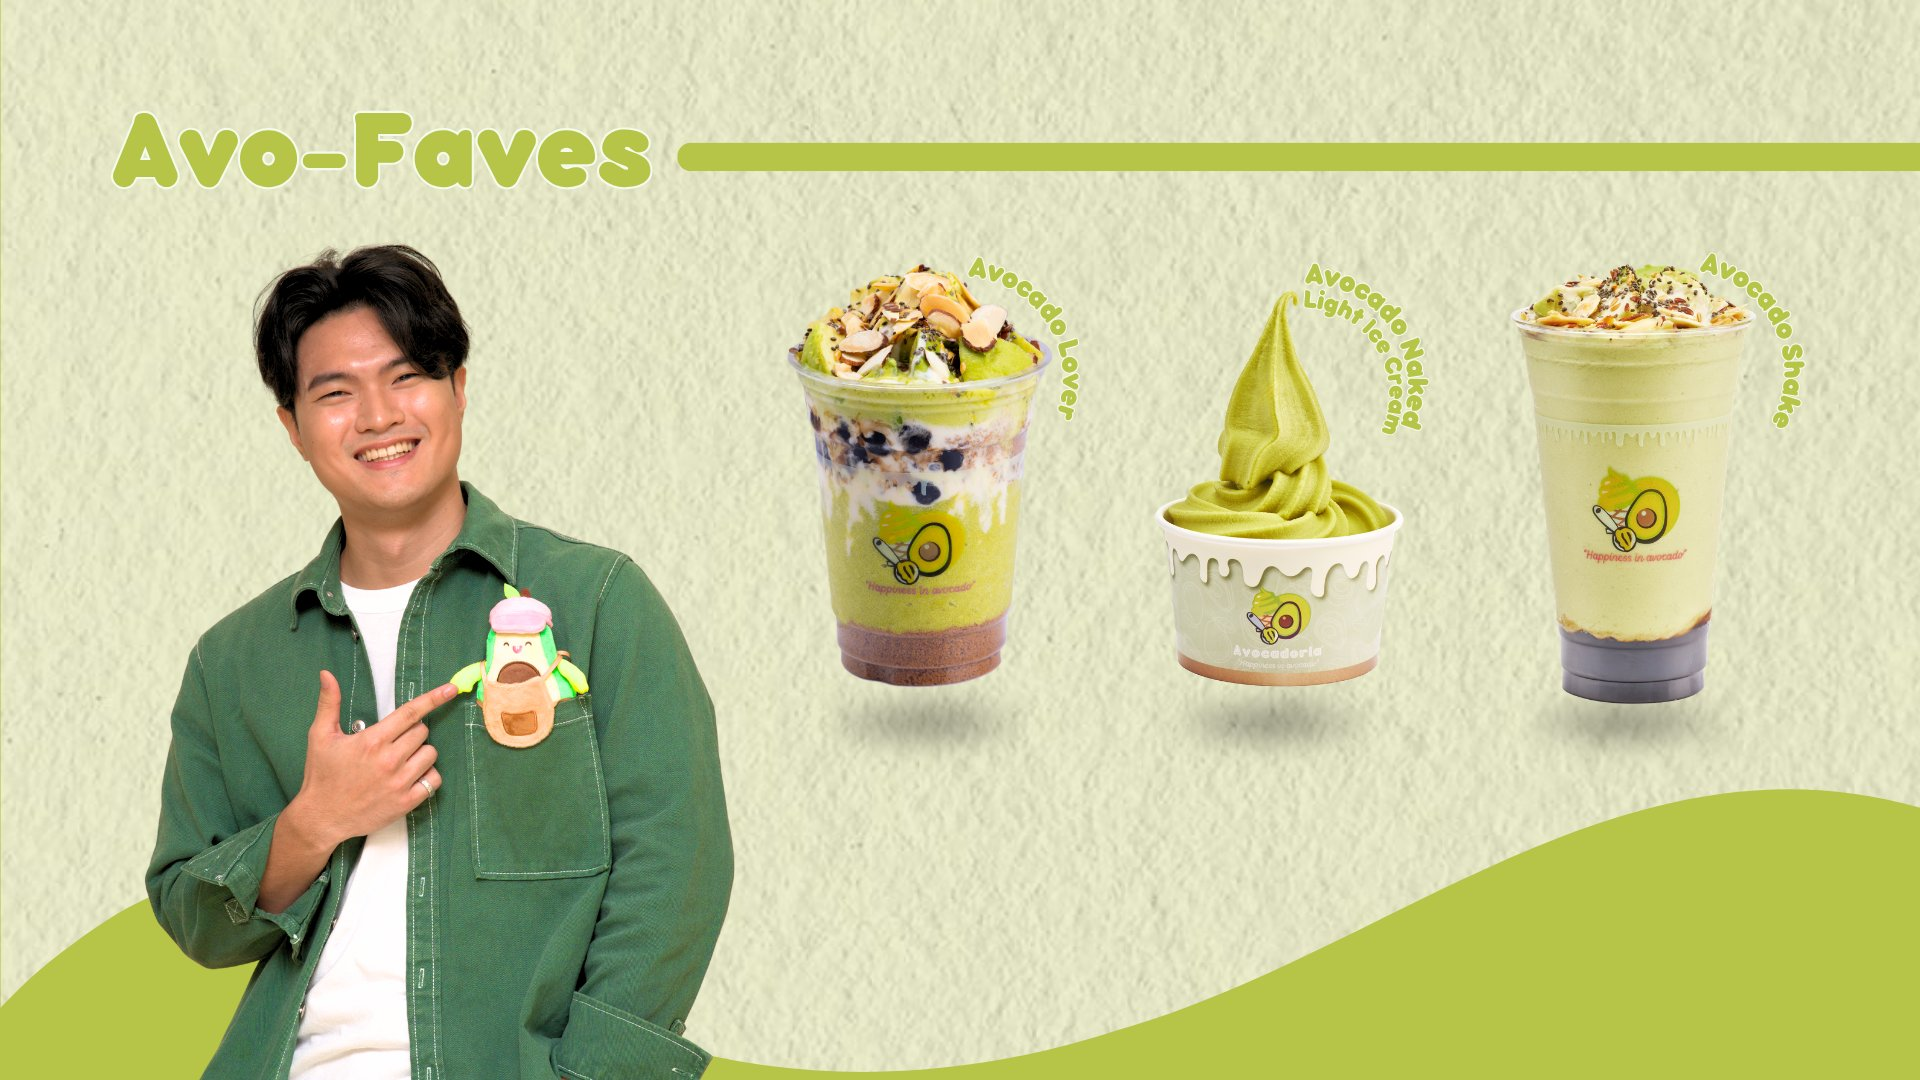
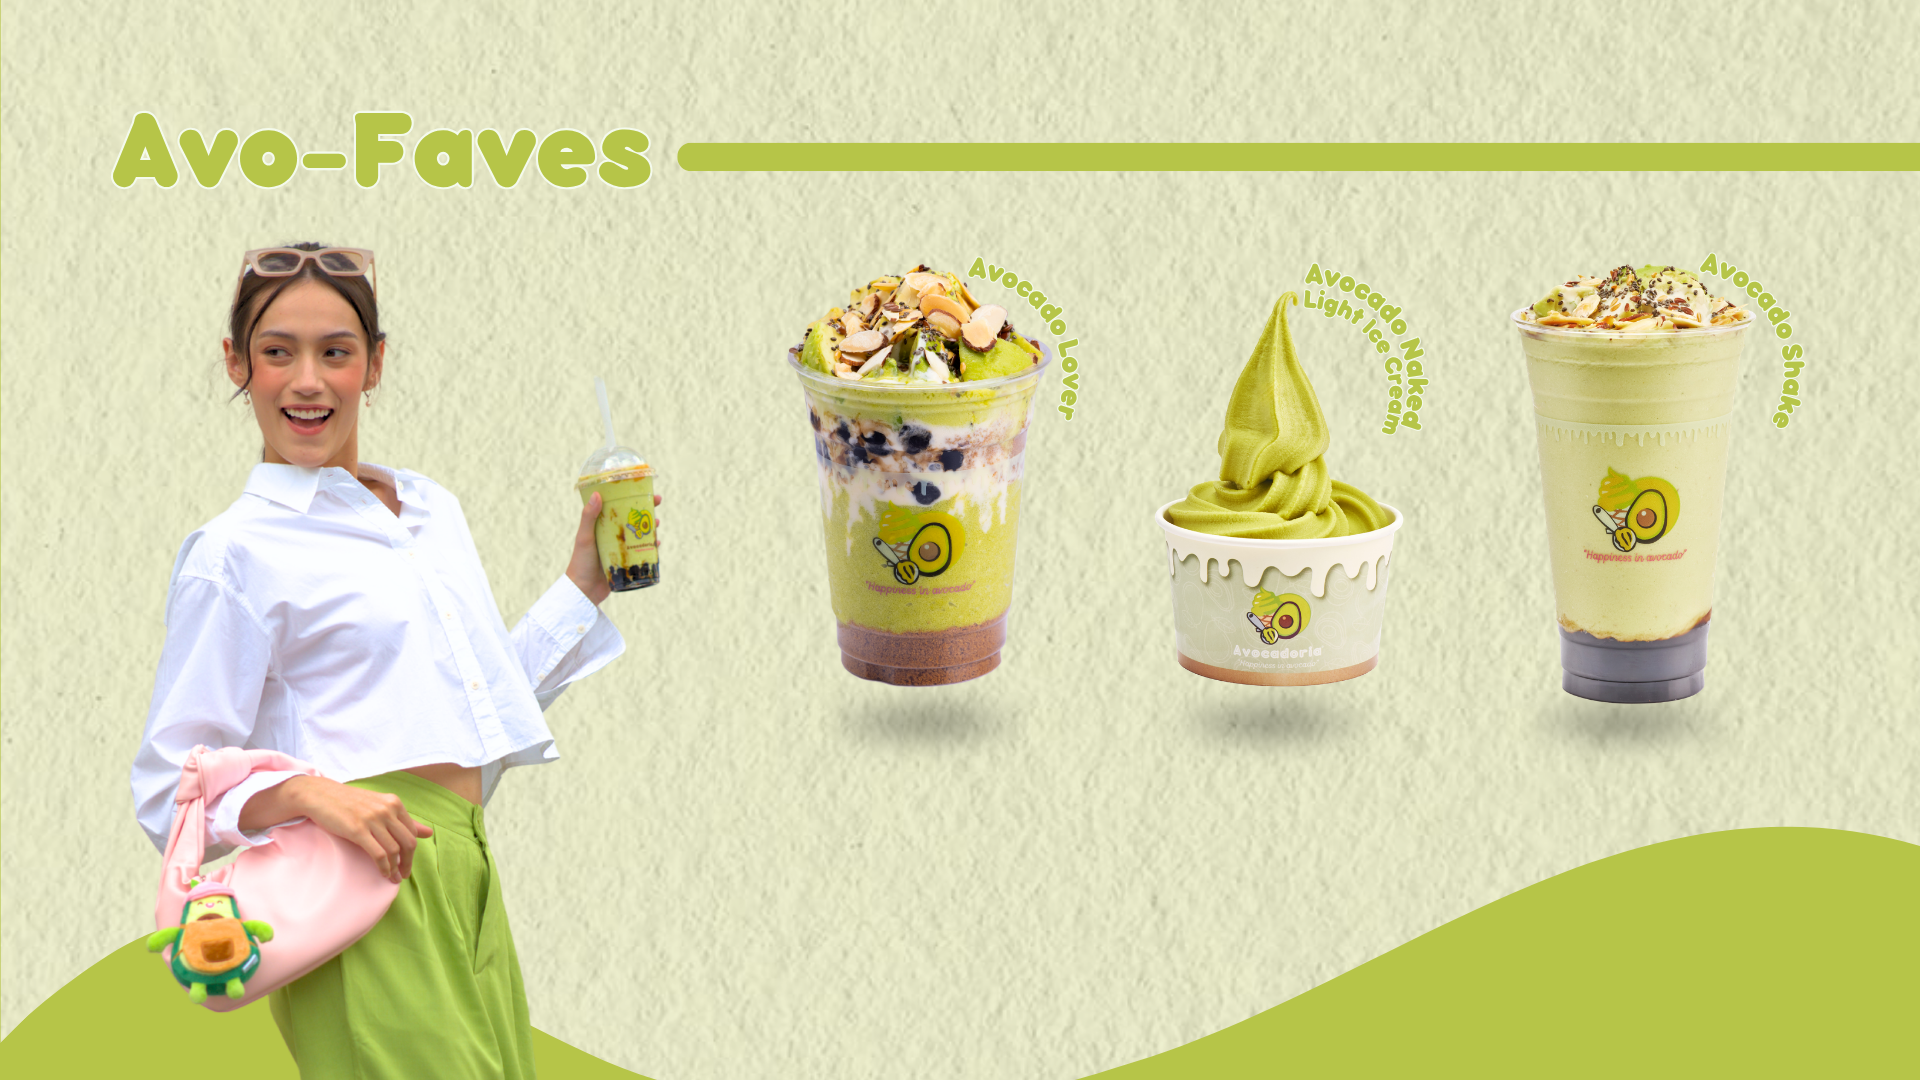
homepage

diff --git a/src/pages/HomePage.jsx b/src/pages/HomePage.jsx
@@ -184,64 +184,52 @@ function ProductLayers() {
 
 const FRANCHISE_CARTS = [
   {
-    id:         'food-truck',
-    image:      '/franchise-food-truck.png',
-    name:       'Food Truck',
-    size:       '10 sqm',
-    tag:        'Most Mobile',
-    tagColor:   '#EF7ECB',
-    color:      '#b6c548',
-    highlights: [
-      'Perfect for events, bazaars & festivals',
-      'Pick-up + Order window layout',
-      'Fully branded with illuminated signage',
-      'Easy to relocate — maximum reach',
-    ],
+    id:       'food-truck',
+    image:    '/ft-food-truck.png',
+    name:     'Food Truck',
+    tag:      'Most Mobile',
+    tagColor: '#EF7ECB',
+    color:    '#b6c548',
   },
   {
-    id:         'island',
-    image:      '/franchise-island.png',
-    name:       'Island',
-    size:       '20 sqm',
-    tag:        'Best Value',
-    tagColor:   '#DFD438',
-    color:      '#3a6b35',
-    highlights: [
-      'Integrated seating area for dwell time',
-      'Largest format — premium mall presence',
-      'Dedicated prep + service zones',
-      'Scalable layout for high foot traffic',
-    ],
+    id:       'kiosk',
+    image:    '/ft-kiosk.png',
+    name:     'Kiosk',
+    tag:      'Most Popular',
+    tagColor: '#b6c548',
+    color:    '#3a6b35',
   },
   {
-    id:         'popup',
-    image:      '/franchise-popup.png',
-    name:       'Pop Up',
-    size:       '6 sqm',
-    tag:        'Entry Level',
-    tagColor:   '#b6c548',
-    color:      '#EF7ECB',
-    highlights: [
-      'Most affordable entry point',
-      'Illuminated Avocadoria branding wall',
-      'Built-in digital display screen',
-      'Compact & efficient — fits any space',
-    ],
+    id:       'kiosk-1',
+    image:    '/ft-kiosk-1.png',
+    name:     'Kiosk Premium',
+    tag:      'Fan Favourite',
+    tagColor: '#DFD438',
+    color:    '#8A5F3C',
   },
   {
-    id:         'kiosk',
-    image:      '/franchise-kiosk.png',
-    name:       'Kiosk',
-    size:       '6.25 sqm',
-    tag:        'Most Popular',
-    tagColor:   '#b6c548',
-    color:      '#8A5F3C',
-    highlights: [
-      'Iconic avocado drip counter design',
-      'Signature curved architecture',
-      'Open layout — fast Order → Pick-Up flow',
-      'Premium finish, strong brand visibility',
-    ],
+    id:       'kiosk-2',
+    image:    '/ft-kiosk-2.png',
+    name:     'Kiosk Classic',
+    tag:      'Best Value',
+    tagColor: '#3a6b35',
+    color:    '#EF7ECB',
+  },
+  {
+    id:       'island',
+    image:    '/ft-island.png',
+    name:     'Island',
+    tag:      'Largest Format',
+    tagColor: '#b6c548',
+    color:    '#3a6b35',
+  },
+  {
+    id:       'island-1',
+    image:    '/ft-island-1.png',
+    name:     'Island Plus',
+    tag:      'With Seating',
+    tagColor: '#EF7ECB',
+    color:    '#b6c548',
   },
 ]
 
@@ -265,8 +253,8 @@ const FRANCHISE_BG = {
   overlayOpacity: 0.45,
 
   // Padding top/bottom
-  paddingTop:    '72px',
-  paddingBottom: '56px',
+  paddingTop:    '32px',
+  paddingBottom: '48px',
 }
 
 // White stroke text-shadow (same as hero headline)
@@ -334,28 +322,8 @@ function FranchiseTeaser() {
     <section style={{
       padding: `${FRANCHISE_BG.paddingTop} 24px ${FRANCHISE_BG.paddingBottom}`,
       position: 'relative',
-      background: FRANCHISE_BG.type === 'image'
-        ? 'transparent'
-        : FRANCHISE_BG.type === 'gradient'
-        ? FRANCHISE_BG.gradient
-        : FRANCHISE_BG.type === 'solid'
-        ? FRANCHISE_BG.solid
-        : 'transparent',
-      backgroundImage: FRANCHISE_BG.type === 'image'
-        ? `url('${FRANCHISE_BG.image}')`
-        : 'none',
-      backgroundSize: 'cover',
-      backgroundPosition: 'center',
-      backgroundRepeat: 'no-repeat',
+      background: 'linear-gradient(135deg, #c8d96a 0%, #d9e29e 40%, #c0d458 100%)',
     }}>
-      {/* Optional white overlay — softens the bg slightly */}
-      {FRANCHISE_BG.overlayOpacity > 0 && (
-        <div style={{
-          position: 'absolute', inset: 0, pointerEvents: 'none', zIndex: 0,
-          background: `rgba(255,255,255,${FRANCHISE_BG.overlayOpacity})`,
-        }}/>
-      )}
-      {/* Content sits above overlay */}
       <div style={{ position: 'relative', zIndex: 1 }}>
       <style>{`
         @keyframes ft-fade-in {
@@ -398,15 +366,15 @@ function FranchiseTeaser() {
       `}</style>
 
       {/* ── Headline ── */}
-      <div style={{ textAlign: 'center', marginBottom: '36px' }}>
+      <div style={{ textAlign: 'center', marginBottom: '20px' }}>
         {/* Badge */}
         <span style={{
-          display: 'inline-block', marginBottom: '14px',
+          display: 'inline-block', marginBottom: '10px',
           background: '#EF7ECB', color: '#fff',
           fontFamily: "'BubbleboddyNeue', 'Nunito', sans-serif",
-          fontSize: '12px', fontWeight: '800',
+          fontSize: '11px', fontWeight: '800',
           letterSpacing: '0.07em', textTransform: 'uppercase',
-          padding: '5px 18px', borderRadius: '999px',
+          padding: '4px 16px', borderRadius: '999px',
         }}>
           Now Open for Franchising 🥑
         </span>
@@ -431,126 +399,51 @@ function FranchiseTeaser() {
           margin: 0,
           textShadow: '0 1px 0 rgba(255,255,255,0.8)',
         }}>
-          Four flexible formats. One iconic brand.
+          Six flexible formats. One iconic brand.
         </p>
       </div>
 
-      {/* ── Carousel wrapper ── */}
-      <div style={{
-        maxWidth: '960px', margin: '0 auto',
-        display: 'flex', alignItems: 'center', gap: '16px',
-      }}>
+      {/* ── Carousel wrapper — 3 visible, sliding track ── */}
+      <div style={{ maxWidth: '1100px', margin: '0 auto', display: 'flex', alignItems: 'center', gap: '12px' }}>
 
         {/* Left arrow */}
         {arrowBtn(prev, 'Previous cart format', '‹')}
 
-        {/* Card */}
-        <div
-          key={cur}
-          className="ft-card-enter"
-          style={{
-            flex: 1,
-            background: 'rgba(255,255,255,0.88)',
-            borderRadius: '24px',
-            border: `2px solid ${cart.color}30`,
-            boxShadow: '0 8px 32px rgba(0,0,0,0.10), inset 0 1px 0 rgba(255,255,255,0.9)',
-            backdropFilter: 'blur(12px)',
-            overflow: 'hidden',
-            opacity: visible ? 1 : 0,
-            transition: `opacity ${FRANCHISE_TIMING.transitionMs}ms ease`,
-          }}
-        >
-          <div className="ft-card-grid" style={{ display: 'flex' }}>
-
-            {/* Left: image */}
-            <div className="ft-card-img" style={{
-              width: '42%', minHeight: '320px',
-              background: `${cart.color}10`,
-              display: 'flex', alignItems: 'center', justifyContent: 'center',
-              padding: '24px',
-              borderRight: `1px solid ${cart.color}20`,
-              flexShrink: 0,
-            }}>
-              <img
-                src={cart.image}
-                alt={cart.name}
+        {/* Sliding track */}
+        <div style={{ flex: 1, overflow: 'hidden' }}>
+          <div style={{
+            display: 'flex', gap: '16px',
+            transform: `translateX(calc(-${cur} * (100% / 3 + 16px / 3)))`,
+            transition: `transform ${FRANCHISE_TIMING.transitionMs}ms cubic-bezier(.4,0,.2,1)`,
+          }}>
+            {FRANCHISE_CARTS.map((c) => (
+              <div
+                key={c.id}
                 style={{
-                  width: '100%', maxHeight: '280px',
-                  objectFit: 'contain', display: 'block',
+                  flexShrink: 0,
+                  width: 'calc((100% - 32px) / 3)',
+                  position: 'relative',
+                  aspectRatio: '4/3',
+                  cursor: 'pointer',
+                  transition: 'transform 0.3s ease',
                 }}
-              />
-            </div>
-
-            {/* Right: info */}
-            <div className="ft-card-info" style={{ flex: 1, padding: '28px 28px 24px' }}>
-
-              {/* Tag */}
-              <span style={{
-                display: 'inline-block', marginBottom: '12px',
-                background: cart.tagColor, color: '#fff',
-                fontFamily: 'Nunito, sans-serif',
-                fontSize: '11px', fontWeight: '800',
-                letterSpacing: '0.06em', textTransform: 'uppercase',
-                padding: '4px 14px', borderRadius: '999px',
-              }}>
-                {cart.tag}
-              </span>
-
-              {/* Cart name */}
-              <h3 style={{
-                fontFamily: "'BubbleboddyNeue', 'Nunito', sans-serif",
-                fontSize: 'clamp(1.6rem, 3vw, 2.4rem)',
-                fontWeight: 800, lineHeight: 1.1,
-                color: cart.color, margin: '0 0 4px',
-              }}>
-                {cart.name}
-              </h3>
-
-              {/* Size */}
-              <p style={{
-                fontFamily: 'Nunito, sans-serif',
-                fontSize: '13px', color: '#8A5F3C',
-                opacity: 0.7, margin: '0 0 18px',
-              }}>
-                Store Size: <strong>{cart.size}</strong>
-              </p>
-
-              {/* Divider */}
-              <div style={{ height: '1px', background: `${cart.color}30`, marginBottom: '16px' }}/>
-
-              {/* Highlights */}
-              <ul style={{ listStyle: 'none', padding: 0, margin: '0 0 22px', display: 'flex', flexDirection: 'column', gap: '9px' }}>
-                {cart.highlights.map((h, i) => (
-                  <li key={i} style={{ display: 'flex', alignItems: 'flex-start', gap: '9px',
-                    fontFamily: 'Nunito, sans-serif', fontSize: '13px', color: '#5a6a2a', lineHeight: 1.4 }}>
-                    <span style={{
-                      width: '18px', height: '18px', borderRadius: '50%',
-                      background: cart.color, color: '#fff',
-                      display: 'flex', alignItems: 'center', justifyContent: 'center',
-                      fontSize: '9px', fontWeight: '800', flexShrink: 0, marginTop: '1px',
-                    }}>✓</span>
-                    {h}
-                  </li>
-                ))}
-              </ul>
-
-              {/* Inquire link */}
-              <Link
-                to="/franchise"
-                style={{
-                  fontFamily: 'Nunito, sans-serif',
-                  fontSize: '13px', fontWeight: '700',
-                  color: cart.color, textDecoration: 'none',
-                  display: 'inline-flex', alignItems: 'center', gap: '4px',
-                  opacity: 0.85, transition: 'opacity 0.2s',
-                }}
-                onMouseEnter={e => e.currentTarget.style.opacity='1'}
-                onMouseLeave={e => e.currentTarget.style.opacity='0.85'}
+                onMouseEnter={e => e.currentTarget.style.transform='translateY(-8px)'}
+                onMouseLeave={e => e.currentTarget.style.transform='none'}
               >
-                Inquire About This Format →
-              </Link>
-
-            </div>
+                <img
+                  src={c.image}
+                  alt={c.name}
+                  style={{
+                    position: 'absolute', inset: 0,
+                    width: '140%', height: '100%',
+                    objectFit: 'contain',
+                    objectPosition: 'center center',
+                    filter: 'drop-shadow(0 12px 28px rgba(40,70,20,0.22))',
+                    left: '-20%',
+                  }}
+                />
+              </div>
+            ))}
           </div>
         </div>
 
@@ -558,8 +451,8 @@ function FranchiseTeaser() {
         {arrowBtn(next, 'Next cart format', '›')}
       </div>
 
-      {/* ── Dots + progress ── */}
-      <div style={{ display: 'flex', justifyContent: 'center', alignItems: 'center', gap: '10px', marginTop: '24px' }}>
+      {/* ── Dots hidden ── */}
+      <div style={{ display: 'none' }}>
         {FRANCHISE_CARTS.map((c, i) => (
           <button
             key={c.id}
@@ -812,8 +705,8 @@ export default function HomePage() {
             position:'absolute', inset:0, zIndex:3, pointerEvents:'none',
             background:`linear-gradient(to right,
               rgba(255,255,255,${WASH.opacityLeft})    0%,
-              rgba(255,255,255,${WASH.opacityMidLeft}) 80%,
-              rgba(255,255,255,${WASH.opacityMid})     100%,
+              rgba(255,255,255,${WASH.opacityMidLeft}) 28%,
+              rgba(255,255,255,${WASH.opacityMid})     44%,
               rgba(255,255,255,${WASH.opacityRight})   ${WASH.clearAt},
               rgba(255,255,255,0) 100%)`,
           }}/>
@@ -916,13 +809,21 @@ export default function HomePage() {
           </div>
         </section>
 
+        {/* Wave: Avo Faves #e8f0c8 → franchise green — matches the slope gradient */}
+        <Wave fromColor="#e8f0c8" toColor="#c8d96a" height={60} />
+
         {/* ════════════ FRANCHISE TEASER ════════════ */}
         <FranchiseTeaser />
 
-        <Wave fromColor="#e8f0c8" toColor={C.news} height={56} />
+        <Wave fromColor="#e8f0c8" toColor="#d9e29e" height={56} />
 
         {/* ════════════ WHAT'S NEW ════════════ */}
-        <section style={{ background:C.news, padding:'64px 32px 80px' }}>
+        <section style={{ position:'relative', overflow:'hidden', padding:'64px 32px 80px' }}>
+          <img src="/avobg.svg" aria-hidden="true" style={{
+            position:'absolute', inset:0, width:'100%', height:'100%',
+            objectFit:'cover', zIndex:0,
+          }} />
+          <div style={{ position:'relative', zIndex:1 }}>
           <div style={{ maxWidth:'1200px', margin:'0 auto' }}>
 
             {/* Header row */}
@@ -1037,6 +938,7 @@ export default function HomePage() {
               </div>
             )}
 
+          </div>
           </div>
         </section>
 